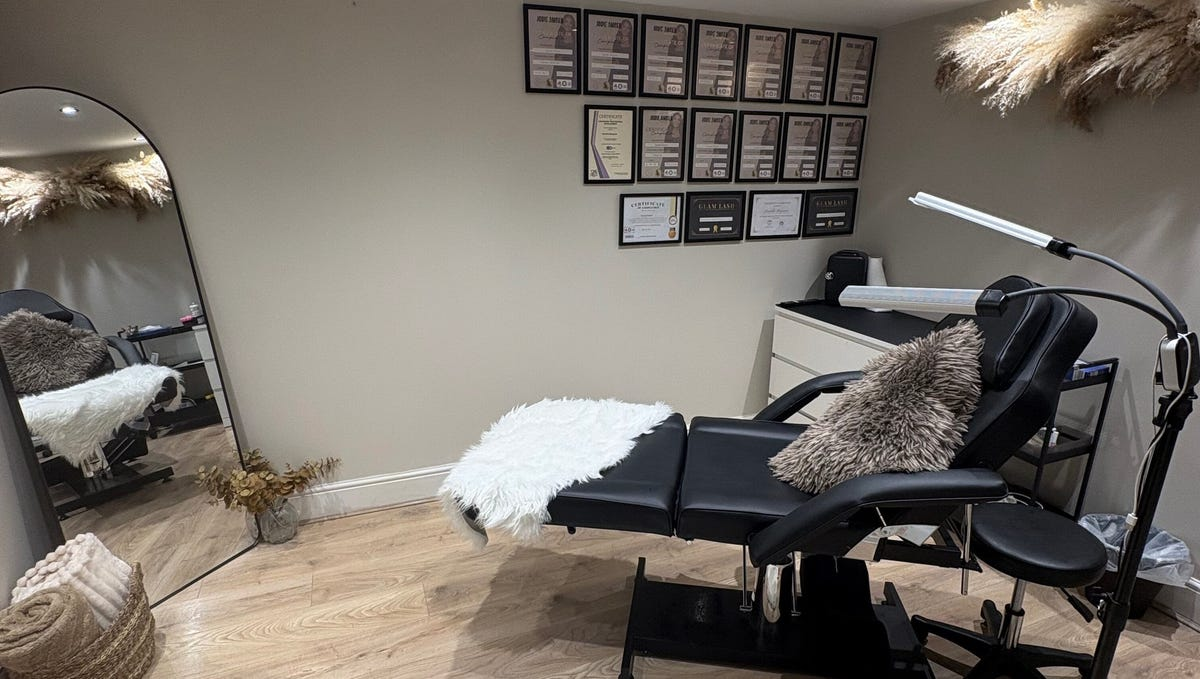
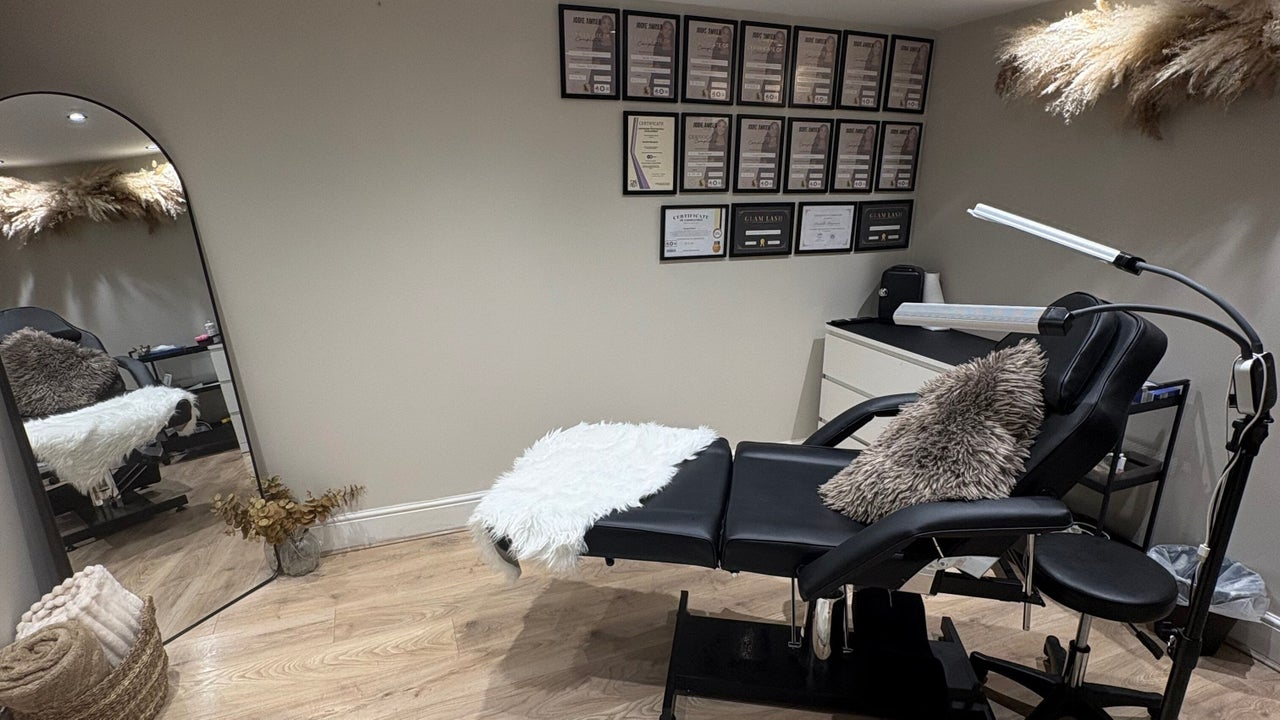
Refine desktop and mobile openings and use higher-resolution originals after browser review

diff --git a/src/style.css b/src/style.css
@@ -16,3 +16,11 @@
 .supplied-brand{width:210px;flex-shrink:0}.supplied-brand>img{width:210px;height:auto;mix-blend-mode:multiply}.supplied-mark{width:50px;height:45px;object-fit:contain;mix-blend-mode:multiply;margin-bottom:14px}.footer-main .supplied-brand{width:230px}.footer-main .supplied-brand>img{width:230px}
 @media(max-width:1100px){.supplied-brand,.supplied-brand>img{width:185px}.global-motion-toggle{font-size:7px}nav#navigation{gap:13px}.header-inner{gap:13px}}
 @media(max-width:760px){.supplied-brand,.supplied-brand>img{width:155px}.header-inner{min-height:82px;gap:7px}.supplied-mark{width:40px;height:36px;margin-bottom:9px}.footer-main .supplied-brand,.footer-main .supplied-brand>img{width:210px}}
+
+@media(min-width:761px){.chapter-layout{min-height:700px}.chapter-switch{margin-bottom:28px}.chapter-panel h1{font-size:clamp(72px,7.2vw,106px);margin:24px 0 26px}.chapter-footer{padding-top:25px}.hero-slides{bottom:80px}.hero-slide-controls{bottom:15px}}
+@media(min-width:1600px){.chapter-layout{min-height:760px}}
+.motion-ready .chapter-panel h1>span,.motion-ready .chapter-panel h1>em{animation:headline-arrive .95s cubic-bezier(.16,.7,.2,1) both}.motion-ready .chapter-panel h1>span:nth-child(2){animation-delay:.1s}.motion-ready .chapter-panel h1>em{animation-delay:.2s}@keyframes headline-arrive{from{opacity:0;transform:translateY(20px)}to{opacity:1;transform:none}}
+@media(prefers-reduced-motion:reduce){.motion-ready .chapter-panel h1>span,.motion-ready .chapter-panel h1>em{animation:none!important}}
+
+@media(max-width:760px){.chapter-panel h1{font-size:73px;margin:20px 0 23px}.chapter-switch{margin-bottom:25px}.chapter-footer{display:none}.chapter-visual{margin-top:25px;min-height:440px}}
+@media(max-width:370px){.chapter-panel h1{font-size:68px}}

diff --git a/docs/launch-checklist.md b/docs/launch-checklist.md
@@ -18,7 +18,7 @@ Fourteen pages, experience-based course finder, comparison, dedicated course det
 - Named accreditation body, course-specific durations, assessment and certification terms.
 - Deposit/instalment, cancellation/refund terms, model arrangements and junior joining details.
 - Final contact/privacy information and domain.
-- Browser/mobile visual and interaction QA. Browser controller failed in this session; automated checks do not replace this.
+- Desktop and 390px mobile review completed for the editorial homepage. Tested academy/clinic tabs, image rotation, shared pause, mobile navigation and keyboard pathway. Final client-supplied image/brand review remains.
 - Remove noindex/robots restrictions only after final approval and domain setup.
 
 No fabricated student outcomes, testimonials, photos or aggregate review counts.

diff --git a/docs/brand-review.md b/docs/brand-review.md
@@ -25,3 +25,10 @@ Reviewed all relevant text in Daniella's completed questionnaire and rendered th
 - Academy/clinic tabs and Learn/Practise/Progress pathway support Arrow/Home/End keys.
 - Work gallery uses a scroll-snap rail, arrow controls and existing accessible lightbox.
 - No scrolljacking, custom cursor or auto-playing sound.
+
+## Verification
+- Rendered and inspected supplied logo/mark extracts and concept mockups.
+- Desktop preview reviewed, then opening spacing tightened to keep the primary action earlier.
+- 390px mobile opening, navigation and pathway reviewed.
+- Academy/clinic tabs, automatic image rotation, shared pause controls and pathway keyboard Right Arrow tested in browser.
+- Original higher-resolution Fresha photos replace the compressed gallery thumbnails.
